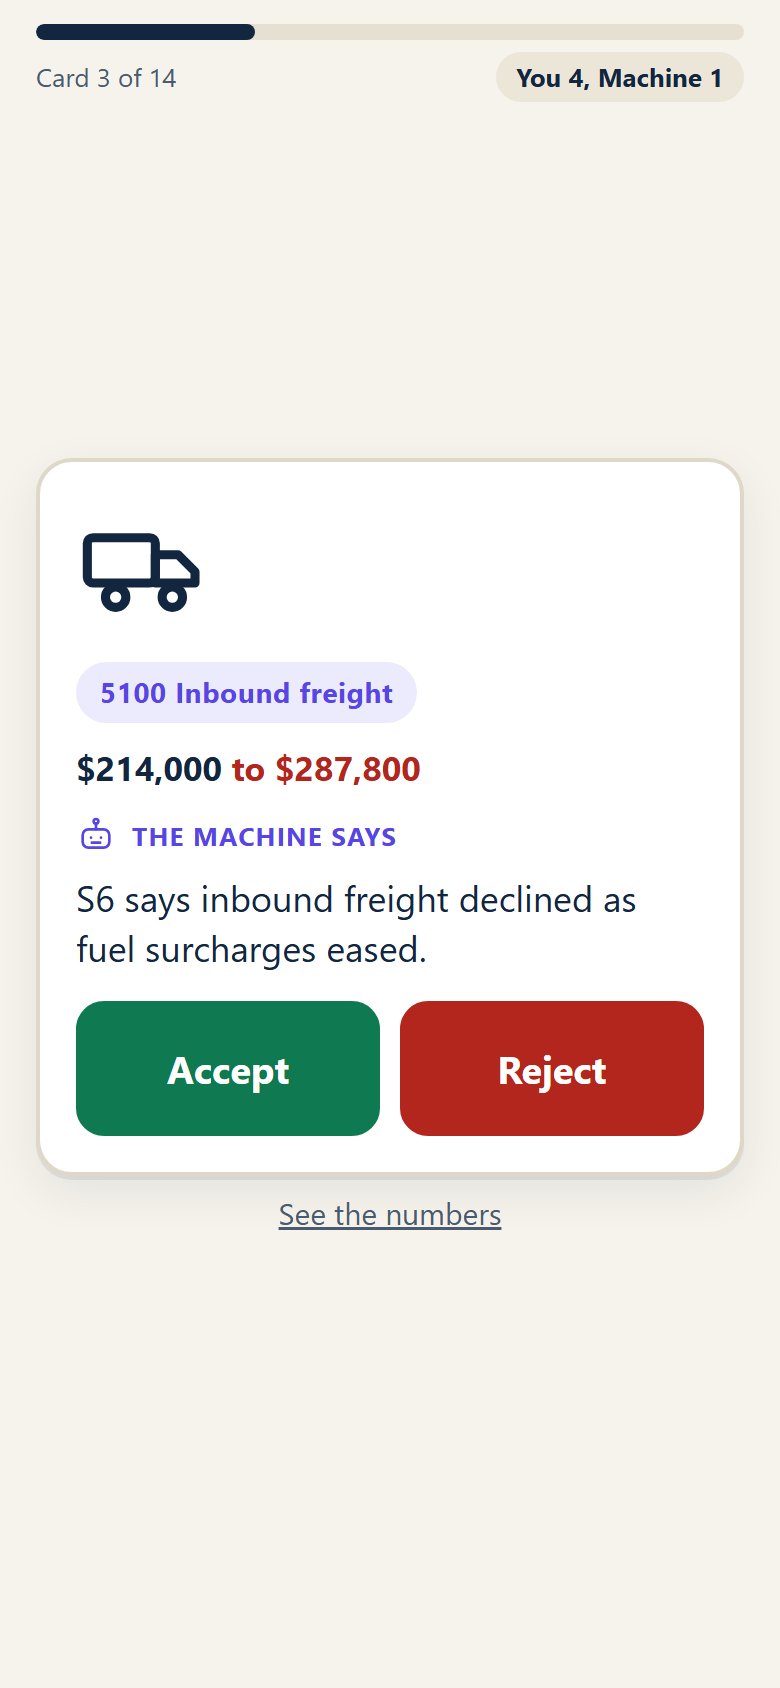
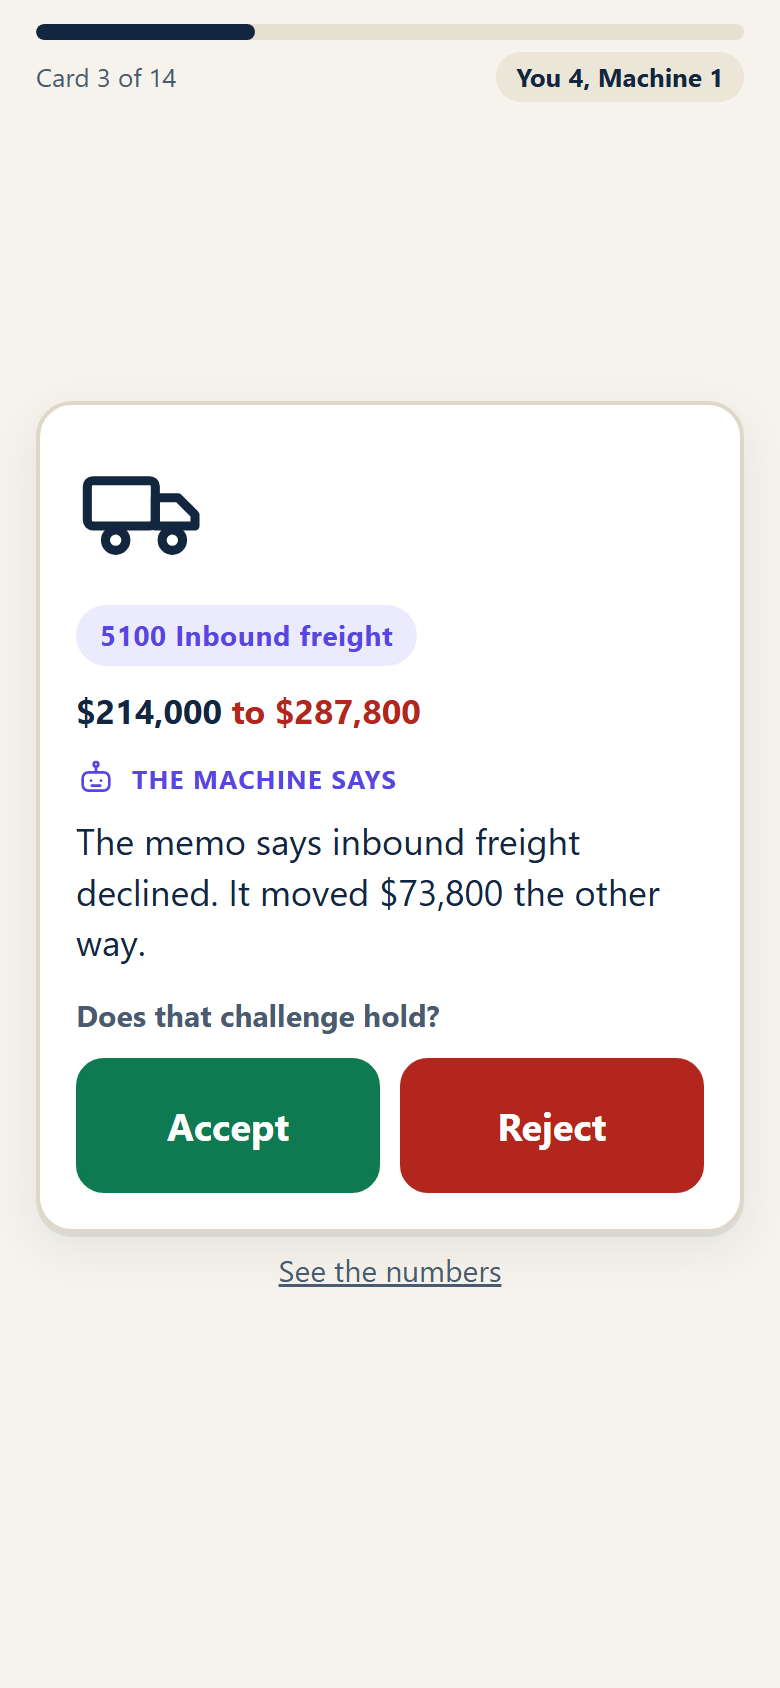
Every card states the machine's challenge, not the memo's sentence
Ten cards printed the memo line under THE MACHINE SAYS, so card 3 read as
"accept a sentence with the direction backwards". The calls always matched the
key; the wording did not. Sentence labels are out, "Does that challenge hold?"
sits above the buttons, and the scoring is explicit: a point only where the call
equals the key, the two point bonus only on a correct Reject of a trap.

Verified: all correct scores 20 to 11, all wrong scores 0 to 11.

Changed region(s): [[0.0308, 0.2773, 0.9538, 0.7701], [0.9231, 0.2464, 0.9538, 0.3081], [0.0308, 0.2464, 0.0615, 0.2773]]

diff --git a/index.html b/index.html
@@ -91,7 +91,8 @@ textarea{min-height:84px;resize:vertical}
 .says{display:flex;gap:8px;align-items:center;font-size:13px;font-weight:700;color:var(--machine);text-transform:uppercase;letter-spacing:.6px;margin-bottom:8px}
 .says svg{width:20px;height:20px;fill:none;stroke:var(--machine);stroke-width:1.6;stroke-linecap:round;stroke-linejoin:round}
 
-.two{display:flex;gap:10px;margin-top:14px}
+.ask{font-weight:700;font-size:15px;margin:14px 0 0;color:var(--ink-soft)}
+.two{display:flex;gap:10px;margin-top:10px}
 .two .btn{margin-top:0;flex:1;padding:18px 8px;font-size:19px}
 .btn.acc{background:var(--accept);border-color:var(--accept)}
 .btn.rej{background:var(--reject);border-color:var(--reject)}
@@ -200,47 +201,47 @@ var CARDS = [
   why:"The fall is $65,000 and 34.9 percent. Both legs clear. The machine cannot subtract."},
  {n:2, icon:"wrench", acct:"6200 Repairs and maintenance",
   nums:'$41,000 <span class="up">to $118,600</span>',
-  says:"S1 says the roof program finished on June 30. S10 says the rest finishes in August.",
+  says:"Two sentences here cannot both be true: the roof program finished on June 30, and the rest finishes in August.",
   answer:"accept", trap:false,
   why:"Both cannot be true, and the answer decides whether June owes an accrual."},
  {n:3, icon:"truck", acct:"5100 Inbound freight",
   nums:'$214,000 <span class="up">to $287,800</span>',
-  says:"S6 says inbound freight declined as fuel surcharges eased.",
+  says:"The memo says inbound freight declined. It moved $73,800 the other way.",
   answer:"accept", trap:false,
   why:"It rose $73,800, up 34.5 percent. The memo has the direction backwards."},
  {n:4, icon:"calendar", acct:"4100 Service revenue",
   nums:'$812,000 <span class="up">to $1,041,000</span>',
-  says:"S9 books all $84,000 of twelve month plans as June revenue.",
+  says:"The memo books all $84,000 of twelve month plans as June revenue. Wrong period.",
   answer:"accept", trap:false,
   why:"June earns one twelfth. Around $77,000 belongs in deferred revenue."},
  {n:5, icon:"brief", acct:"6500 Professional fees",
   nums:'$55,000 <span class="down">to $47,500</span>',
-  says:"Make the controller produce the engagement letter before this memo goes out.",
+  says:"Make the controller confirm which month carried the audit fee and produce the engagement letter.",
   answer:"reject", trap:true,
   why:"S12 already answered it, and $7,500 does not clear the dollar leg."},
  {n:6, icon:"box", acct:"7400 Inventory shrink",
   nums:'$6,400 <span class="up">to $8,900</span>',
-  says:"Up 39 percent and never mentioned. Pull the cycle count file.",
+  says:"Shrink is up 39 percent and never mentioned. Pull the cycle count file.",
   answer:"reject", trap:true,
   why:"$2,500 fails the dollar leg. Both legs must clear, so nothing is owed."},
  {n:7, icon:"glass", acct:"4000 Product revenue",
   nums:'$5,240,000 <span class="up">to $5,612,000</span>',
-  says:"S5 credits the Tri-State depot ramp for the growth and cites nothing.",
+  says:"The growth is credited to the Tri-State depot ramp with nothing attached to support it.",
   answer:"accept", trap:false,
   why:"No volume, no customer count, no depot split. The driver is asserted, not shown."},
  {n:8, icon:"alert", acct:"6400 Bad debt expense",
   nums:'$15,000 <span class="up">to $62,000</span>',
-  says:"S2 says bad debt rose $42,000.",
+  says:"The memo says bad debt rose $42,000. That does not agree with the account.",
   answer:"accept", trap:false,
   why:"It rose $47,000. The memo is $5,000 light and does not tie."},
  {n:9, icon:"fuel", acct:"6100 Fleet fuel",
   nums:'$96,400 <span class="down">to $91,200</span>',
-  says:"S8 parks $19,400 of June fuel invoices in July.",
+  says:"The memo parks $19,400 of June fuel invoices in July and calls it routine.",
   answer:"accept", trap:false,
   why:"A June cost belongs in June. Accrued, fuel rose instead of falling."},
  {n:10, icon:"chip", acct:"6300 Software subscriptions",
   nums:'$28,500 <span class="up">to $30,100</span>',
-  says:"S3 gives this $1,600 move the longest sentence in the memo.",
+  says:"A $1,600 move gets the longest sentence in the memo. Test it against the threshold.",
   answer:"accept", trap:false,
   why:"It fails both legs, while $72,500 of wages gets no sentence at all."},
  {n:11, icon:"people", acct:"6000 Warehouse wages",
@@ -250,17 +251,17 @@ var CARDS = [
   why:"It clears both legs and carries no commentary at all."},
  {n:12, icon:"flag", acct:"4000 and 4200 together",
   nums:'Revenue <span class="up">+$372,000</span>, freight <span class="down">($65,000)</span>',
-  says:"S4 calls the revenue growth customer demand across all four depots.",
+  says:"The growth is called customer demand, and nobody mentions the $65,000 that left freight billed.",
   answer:"accept", trap:false,
   why:"$65,000 moved between the two lines. A fifth of the growth is a reclass."},
  {n:13, icon:"scales", acct:"5000 Cost of product sold",
   nums:'$3,930,000 <span class="up">to $4,278,000</span>',
-  says:"S11 says margin was 24 percent both months, so pricing was stable.",
+  says:"The stable margin conclusion rests on rounded figures. Recompute both months unrounded.",
   answer:"accept", trap:false,
   why:"May was 25.0 and June 23.8. That is a 1.2 point fall, near $69,000."},
  {n:14, icon:"bank", acct:"7100 Interest expense",
   nums:'$61,200 <span class="up">to $92,400</span>',
-  says:"S7 blames depot equipment that also sits in depreciation.",
+  says:"The interest rise is blamed on depot equipment that also sits in depreciation.",
   answer:"accept", trap:false,
   why:"Depreciation did not move, $128,000 both months. Wrong account."}
 ];
@@ -431,6 +432,7 @@ function card(i){
       '<p class="nums">'+c.nums+'</p>'+
       '<div class="says"><svg viewBox="0 0 24 24">'+I.robot+'</svg> The machine says</div>'+
       '<p class="quote">'+esc(c.says)+'</p>'+
+      '<p class="ask">Does that challenge hold?</p>'+
       '<div class="two">'+
         '<button class="btn acc" id="acc">Accept</button>'+
         '<button class="btn rej" id="rej">Reject</button>'+
@@ -445,10 +447,17 @@ function card(i){
 function answer(i, val){
   var c = CARDS[i];
   S.calls[i] = val;
-  var right = (val.toLowerCase() === c.answer);
-  var gained = right ? (c.trap ? 3 : 1) : 0;
+  /* one point only when the player's call equals the key, and the two point
+     trap bonus only on a correct Reject of a trap. Nothing else scores. */
+  var right = (val === "Accept" && c.answer === "accept") ||
+              (val === "Reject" && c.answer === "reject");
+  var gained = 0;
+  if(right){
+    gained = 1;
+    if(c.trap && val === "Reject") gained += 2;
+  }
   S.you += gained;
-  if(!c.trap) S.machine += 1;
+  if(!c.trap) S.machine += 1;  /* the machine banks a point only where its challenge was sound */
   reveal(i, right, gained);
 }
 
